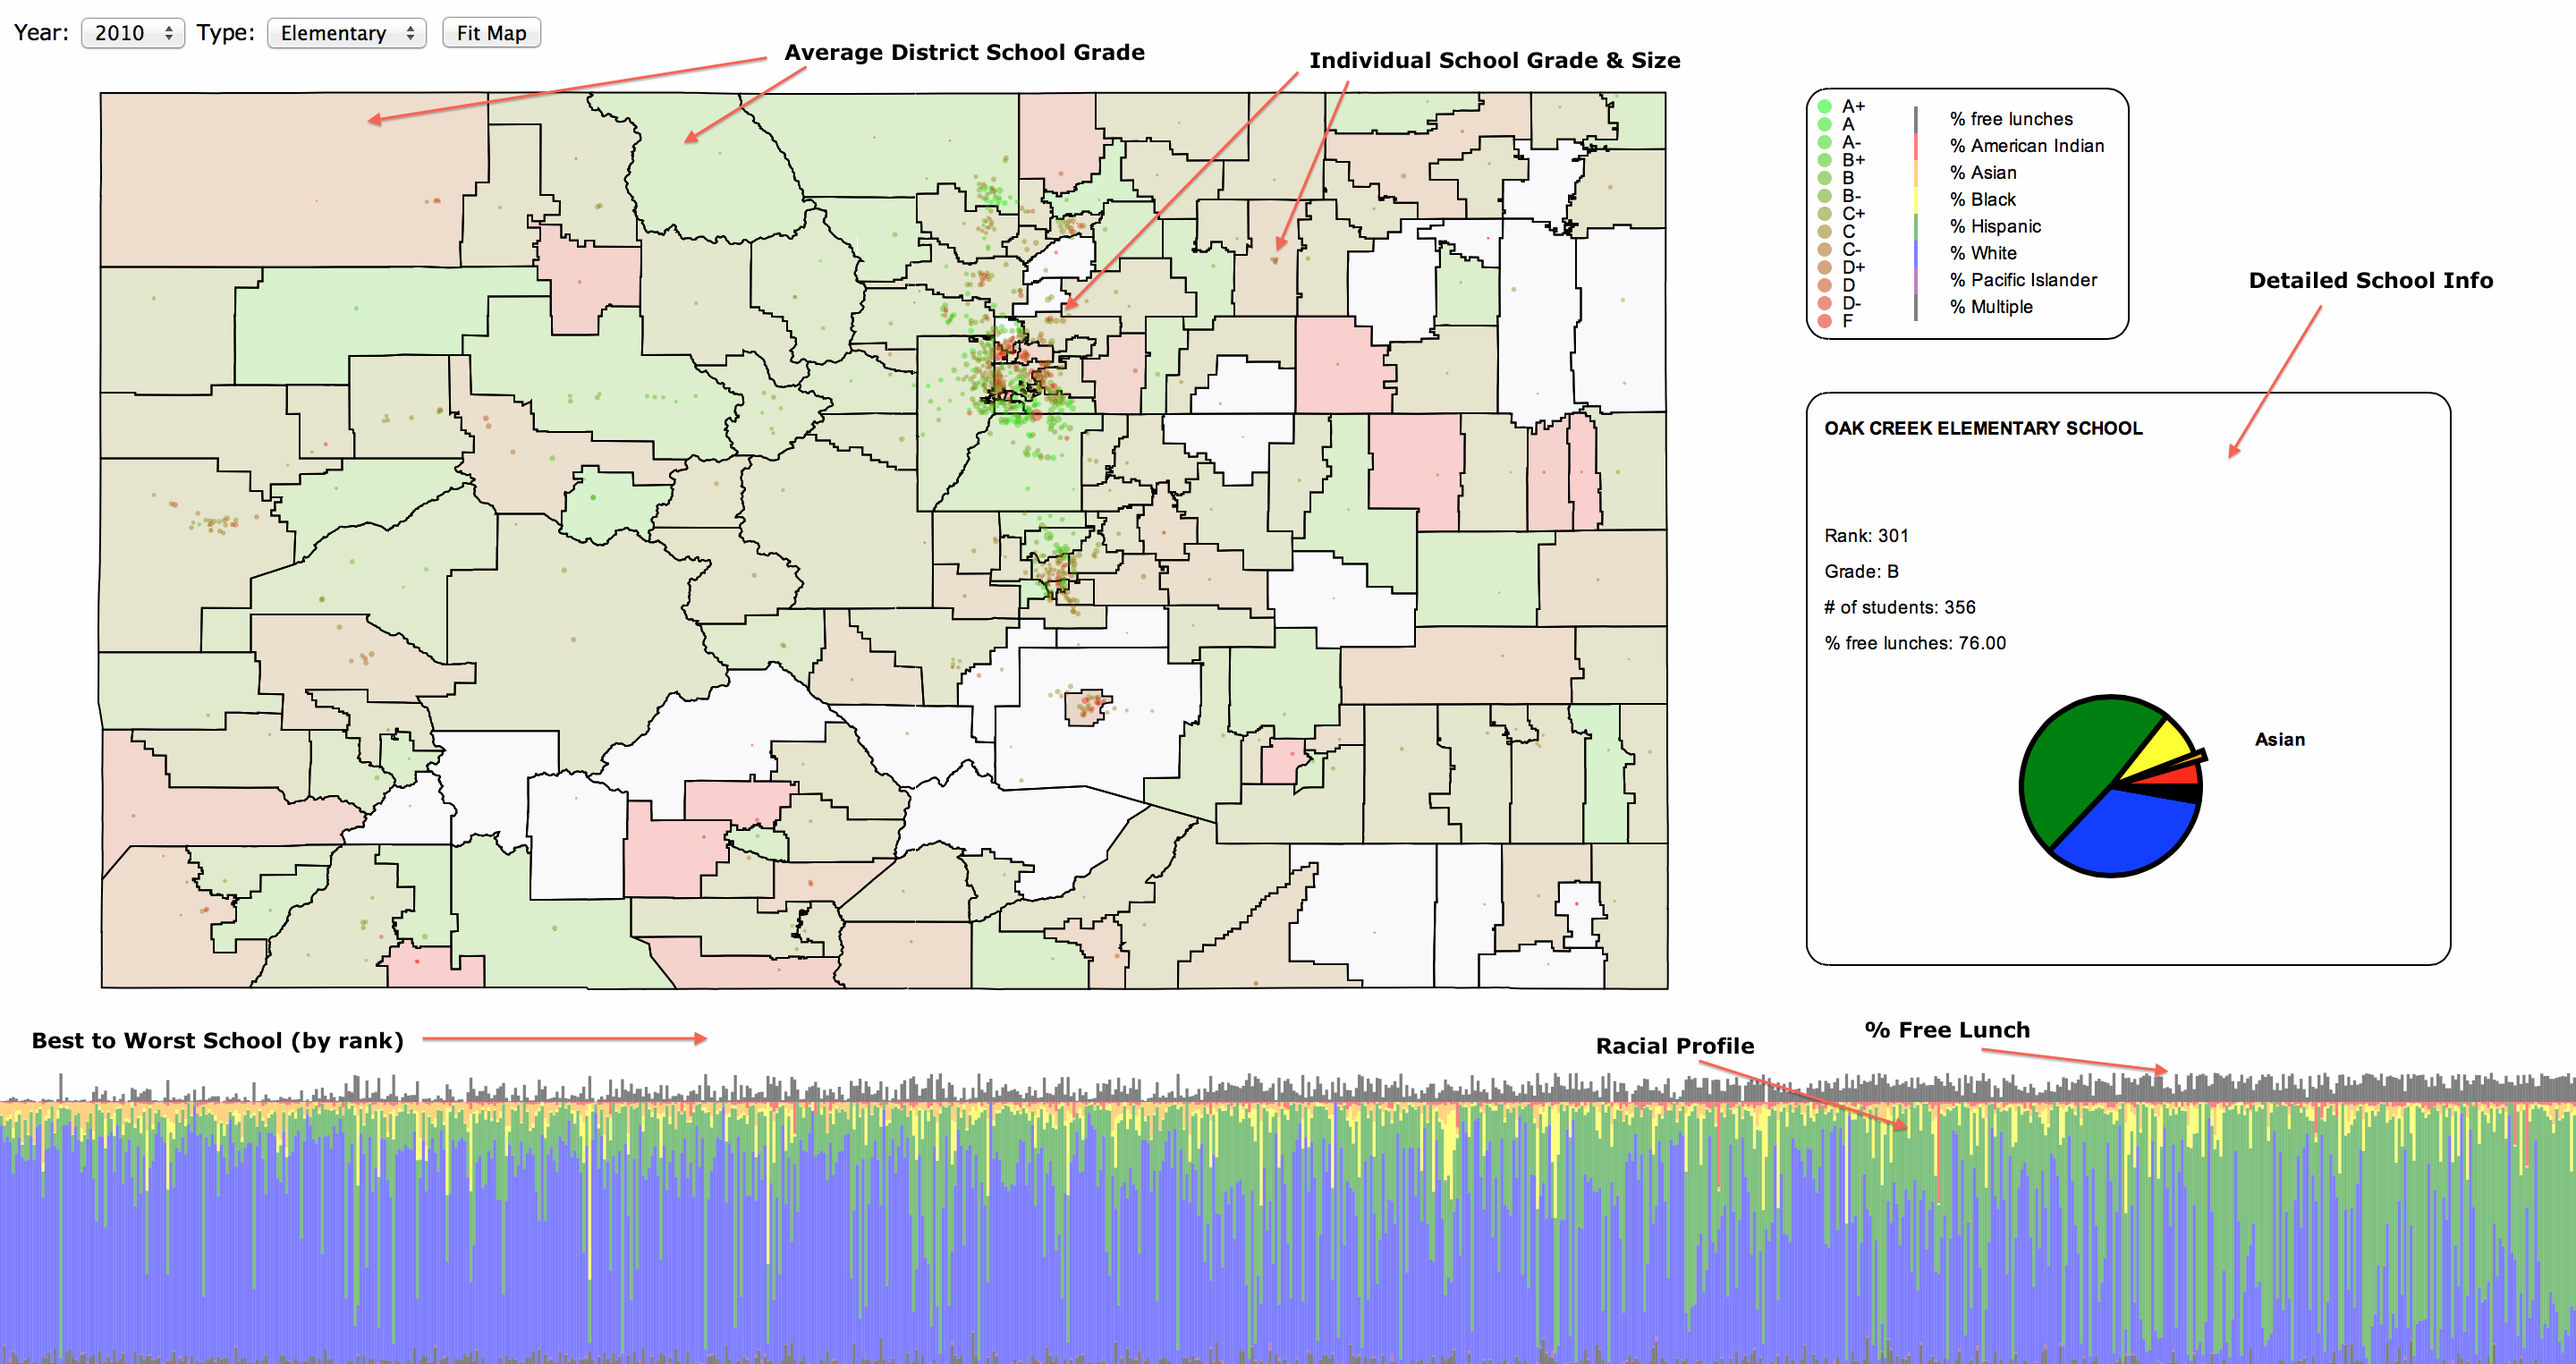
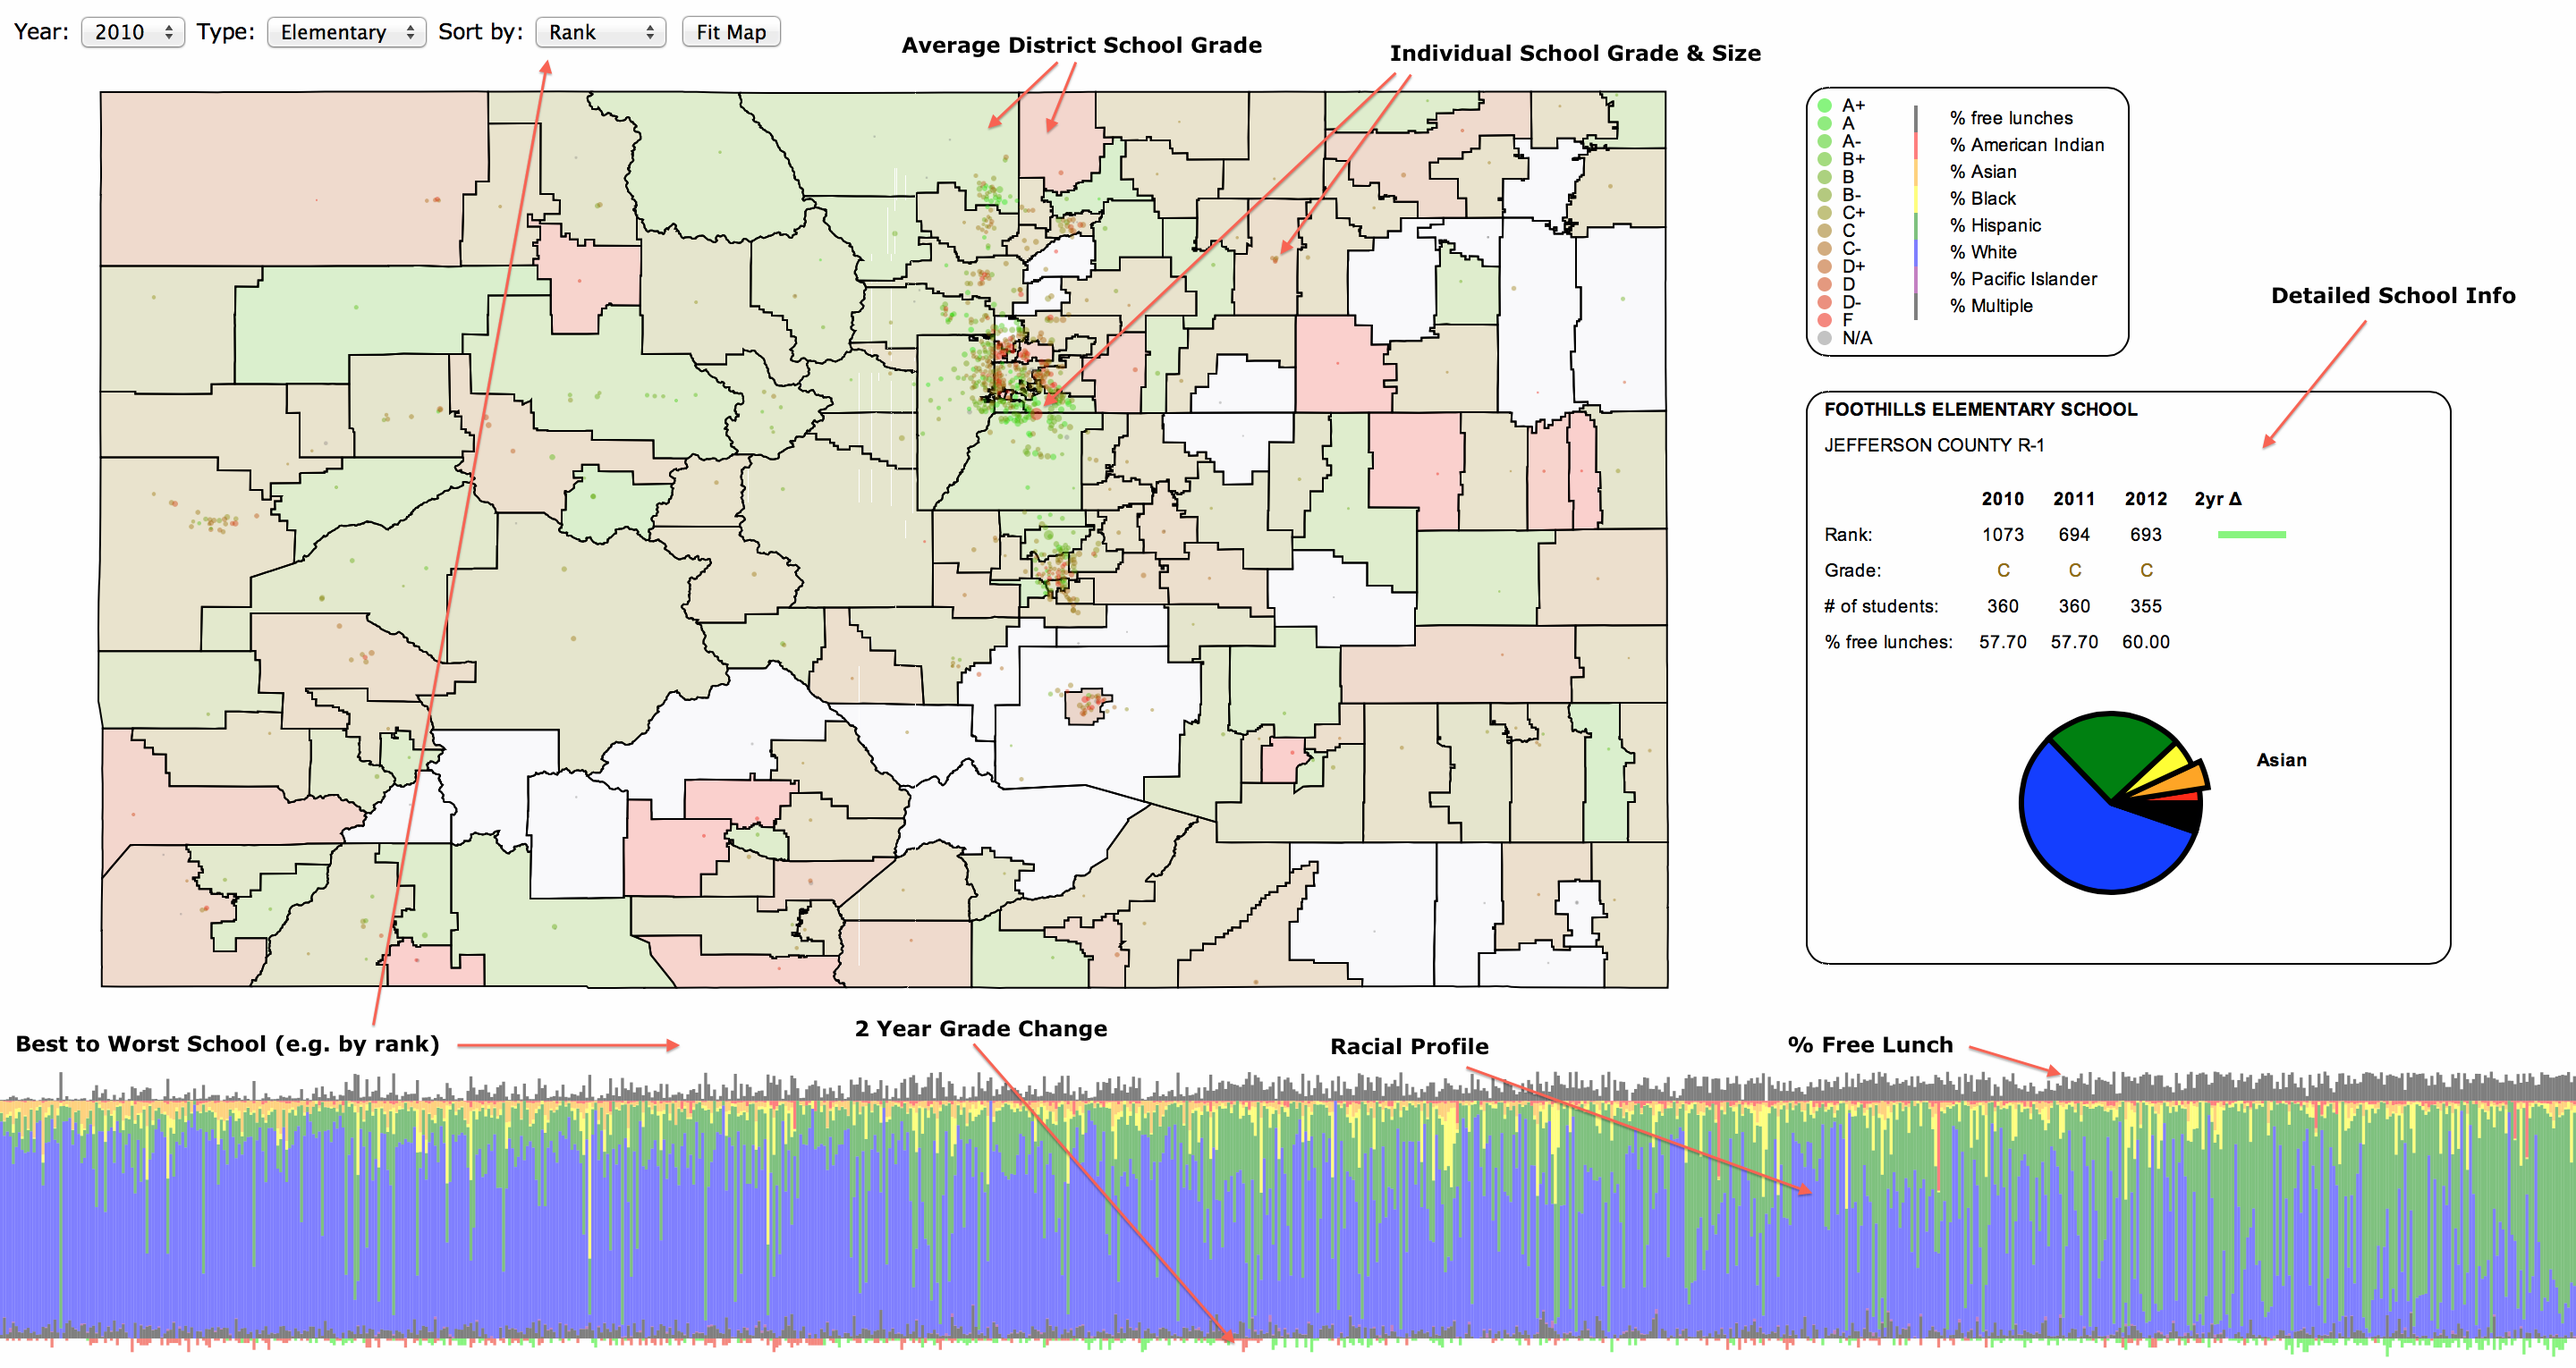
csg: add sorting, more school detail; edit writeup

diff --git a/kaggle/csg/vis.html b/kaggle/csg/vis.html
@@ -25,6 +25,12 @@
       <option value="M">Middle</option>
       <option value="H">High</option>
     </select>
+    <label for="sort">Sort by:</label>
+    <select id="sort">
+      <option value="rank">Rank</option>
+      <option value="deltar">&#x394; Rank</option>
+      <option value="deltag">&#x394; Grade</option>
+    </select>
     <button id="fit">Fit Map</button>
     <script type="text/javascript">
       function pathStr(coords) {
@@ -40,18 +46,21 @@
 
       var map = Raphael(0, 40, 1000, 560);
       var graph = Raphael(0, 600, '100%', 200);
-      var legend = Raphael(1000, 40, 200, 160);
+      var legend = Raphael(1000, 40, 200, 180);
       var info = Raphael(1000, 200, 400, 400);
       var label = map.text(0, 0, '').attr({'font-family': 'Verdana', 'font-size': '48px'}).hide();
       var schools = map.set();
       var districts = {};
 
-      function color(grade) {
-        return 'rgb(' + ((13 - grade) * 19) + ',' + (grade * 19) + ',0)';
+      function color(grade, max, min) {
+        var max = max || letter.length, min = min || 0;
+        if (!grade)
+         return 'gray';
+        return 'rgb(' + ((max - grade) / (max - min) * 255) + ',' + ((grade - min) / (max - min) * 255) + ',0)';
       }
 
-      legend.rect(10, 10, 180, 140, 12);
-      for (var i = 1; i < 14; i++) {
+      legend.rect(10, 10, 180, 150, 12);
+      for (var i = 0; i < 14; i++) {
         legend.circle(20, (14 - i) * 10 + 10, 4).attr({fill: color(i), 'fill-opacity': .5, 'stroke': 'none'});
         legend.text(30, (14 - i) * 10 + 10, letter[i]).attr({'text-anchor': 'start'});
       }
@@ -84,7 +93,12 @@
           districts[district.name].path.push(path);
         });
 
-      function draw(year, type) {
+      Schools.map(function (school) {
+          school.deltar = (school.rank[0] && school.rank[2]) ? school.rank[0] - school.rank[2] : null;
+          school.deltag = (school.grade[2] && school.grade[0]) ? school.grade[2] - school.grade[0] : null;
+        });
+
+      function draw(year, type, sort) {
        for (var d in districts)
         districts[d].schools = [];
        schools.forEach(function (e) { e.remove() });
@@ -93,7 +107,9 @@
        var szmax = 0;
        var nbars = 0;
        Schools.sort(function (a, b) {
-         return a.rank[year] - b.rank[year];
+         if (sort == 'rank')
+          return a[sort][year] - b[sort][year];
+         return b[sort] - a[sort];
         });
        Schools.map(function (school) {
           if (!school.type[year] || school.type[year].indexOf(type) < 0)
@@ -105,6 +121,8 @@
           var rank = school.rank[year];
           var free = school.free[year];
           var grade = school.grade[year];
+          var deltar = school.deltar;
+          var deltag = school.deltag;
           var radius = Math.round(Math.sqrt(size + 64) / 2);
           var circle = map.circle(school.coords[0], -school.coords[1], radius).attr({fill: color(grade), opacity: .4, stroke: 'none'});
           schools.push(circle);
@@ -113,10 +131,11 @@
           if (dist && size && rank) {
            bar.push(graph.rect(nbars, (1 - free) * 10, 1, free * 10).attr({fill: 'black', stroke: 'none', opacity: .5}));
            for (var i = 0; i < dist.length; i++) {
-            var h = dist[i] * 90;
+            var h = dist[i] * 80;
             bar.push(graph.rect(nbars, y, 1, h).attr({fill: colors[i], stroke: 'none', opacity: .5}));
             y += h;
            }
+           bar.push(graph.rect(nbars, y, 1, Math.abs(deltag) / 1.3).attr({fill: deltag > 0 ? color(13) : color(1), stroke: 'none', opacity: .5}));
            nbars++;
           }
           szmax = Math.max(szmax, size);
@@ -127,12 +146,25 @@
            bar.attr({opacity: 1});
            info.clear();
            info.rect(10, 20, 360, 320, 12);
-           info.text(20, 40, school.name).attr({'text-anchor': 'start', 'font-weight': 'bold'});
-           info.text(20, 100, 'Rank: ' + rank).attr({'text-anchor': 'start'});
-           info.text(20, 120, 'Grade: ' + letter[grade]).attr({'text-anchor': 'start'});
-           info.text(20, 140, '# of students: ' + size).attr({'text-anchor': 'start'});
-           info.text(20, 160, '% free lunches: ' + (free * 100).toFixed(2)).attr({'text-anchor': 'start'});
-           info.pieChart(180, 240, 50, dist, labels, colors, 1);
+           info.text(20, 30, school.name).attr({'text-anchor': 'start', 'font-weight': 'bold'});
+           info.text(20, 50, school.district[year]).attr({'text-anchor': 'start'});
+           info.text(20, 100, 'Rank:').attr({'text-anchor': 'start'});
+           info.text(20, 120, 'Grade:').attr({'text-anchor': 'start'});
+           info.text(20, 140, '# of students:').attr({'text-anchor': 'start'});
+           info.text(20, 160, '% free lunches:').attr({'text-anchor': 'start'});
+           info.text(120, 80, '2010').attr({'font-weight': 'bold'});
+           info.text(160, 80, '2011').attr({'font-weight': 'bold'});
+           info.text(200, 80, '2012').attr({'font-weight': 'bold'});
+           info.text(240, 80, '2yr \u0394').attr({'font-weight': 'bold'});
+           for (var i = 0; i < 3; i++) {
+             info.text(120 + 40 * i, 100, school.rank[i]);
+             info.text(120 + 40 * i, 120, letter[school.grade[i] || 0]).attr({fill: color(school.grade[i])});
+             info.text(120 + 40 * i, 140, school.size[i]);
+             info.text(120 + 40 * i, 160, (school.free[i] * 100).toFixed(2));
+           }
+           info.rect(240,  98, Math.abs(deltar) / 10, 4).attr({fill: deltar > 0 ? color(13) : color(1), stroke: 'none', opacity: .5});
+           info.rect(240, 118, Math.abs(deltag) *  5, 4).attr({fill: deltag > 0 ? color(13) : color(1), stroke: 'none', opacity: .5});
+           info.pieChart(180, 250, 50, dist, labels, colors, 1);
           }
           function normal() {
            label.hide();
@@ -158,8 +190,8 @@
        }
       }
 
-      (year.onchange = type.onchange = function () {
-        draw(parseInt(year.value), type.value);
+      (year.onchange = type.onchange = sort.onchange = function () {
+        draw(parseInt(year.value), type.value, sort.value);
       })();
 
       (fit.onclick = function () {

diff --git a/kaggle/csg/index.html b/kaggle/csg/index.html
@@ -379,18 +379,40 @@ Each school is also linked to a vertical bar in the bottom graph (more about thi
 </div>
 <div class="section" id="detailed-school-info">
 <h1>Detailed School Info</h1>
-<p>The detailed school info shows the school's rank, grade, size, percent of students receiving free lunches, and its racial distribution as a pie chart.</p>
+<p>The detailed school info shows the school's rank, grade, size, and percent of students receiving free lunches, for each year.
+The 2yr Δ column shows the change in rank and grade from 2010 to 2012 (green indicates positive change, red indicates negative change).
+The racial distribution is shown as a pie chart, for the year selected in the controls.</p>
 </div>
-<div class="section" id="summary-school-graph-best-to-worst-school-racial-profile-free-lunch">
-<h1>Summary School Graph (Best to Worst School, Racial Profile, % Free Lunch)</h1>
+<div class="section" id="summary-school-graph-best-to-worst-school-2-year-grade-change-racial-profile-free-lunch">
+<h1>Summary School Graph (Best to Worst School, 2 Year Grade Change, Racial Profile, % Free Lunch)</h1>
 <p>In the graph at the bottom, each vertical line represents an individual school (from the subset of schools selected at the very top).
-The vertical lines are sorted by the rank of the schools which they represent.
+The vertical lines are sorted according to the criteria selected in the <cite>Sort by</cite> control (initially the rank), of the schools they represent.
 The upper portion of the vertical line (black part) represents the percent of students receiving free lunch in that school.
-The lower portion of the vertical line (rainbow part) represents the normalized racial distribution of the school.</p>
+The middle portion of the vertical line (rainbow part) represents the normalized racial distribution of the school.
+The lower portion of the vertical line (green / red part) represents the 2 yr Δ of the school's grade.</p>
 <p>It is clear from this graph that there is a correlation between the rank of the school, the number of students receiving free lunches, and the school's racial makeup.
 In general, the better ranked schools have fewer students receiving free lunches, and a higher percentage of white and asian students.
 Conversely, the worse ranked schools have more students receiving free lunches, and a higher percentage of hispanic students.
+Actually, the graph in the image above only shows elementary schools from 2010, but if you use the tool you will find that this is true of all years / school levels.
 I can't offer any insight as to why this might be happening, but it certainly points to an interesting direction for Colorado to explore.</p>
+</div>
+<div class="section" id="insights-questions">
+<h1>Insights &amp; Questions</h1>
+<p>A friend pointed out that one of the most interesting things to do with this tool is to look for outliars.
+Beach Court Elementary School immediately stands out on the summary school graph.
+With an <cite>A+</cite> grade, and ranked at #25, it certainly goes against the trend, having 96.6% of students receiving free lunches, and an almost entirely hispanic student population.
+The school does similarly well in 2011 as in 2010, but in 2012, it suddenly drops off a cliff.
+Searching for the school on Google soon reveals that the administrators at this school were found to be cheating in reporting their scores, and the principal was summarily fired.</p>
+<p>Another elementary school that has similarly outstanding results is Montview Math &amp; Health Sciences.
+Unlike Beach Court, there is no record of a cheating scandal.
+Of note, however, is that the school is surrounded by much lower performing schools.
+I wonder what they are doing differently there?</p>
+<p>Looking at the high schools, of note is DSST: Stapleton.
+Stapleton is a #1 ranked charter school with an impressive racial distribution and almost half it's students receiving free lunches.
+On the other hand, Hope On-Line, EDCSD: Colorado Cyber School, and Colorado Virtual Academy (COVA), are three impressively bad schools, also with abnormal racial profiles (at least in 2012).
+Hope and COVA are two of the largest high schools in all of Colorado, but based on their performance, perhaps virtual high school is not a great idea.</p>
+<p>These remarks are based on my practically non-existant knowledge about Colorado Public Schools.
+My hope is that somebody who understands the schools and districts more intimately can come up with more meaningful hypotheses, using the tool I built.</p>
 </div>
 </div>
 </body>
